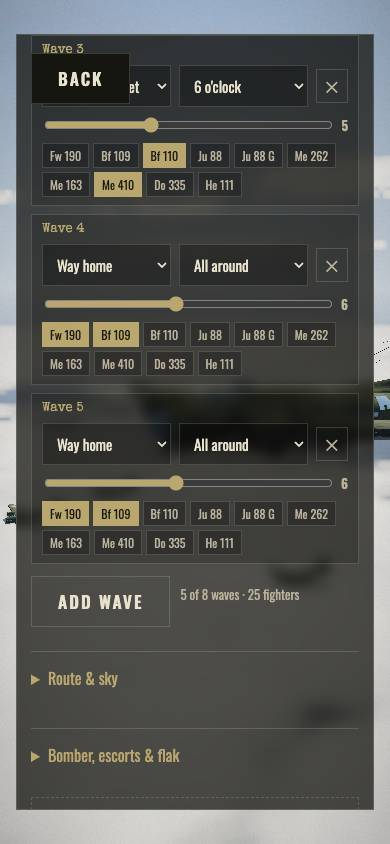
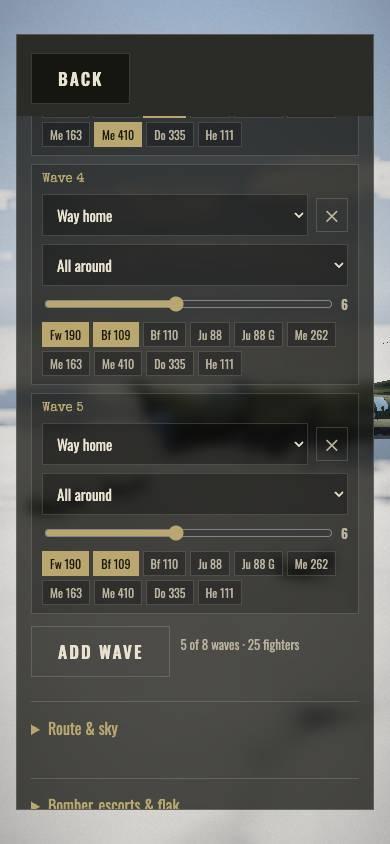
Mission editor review fixes: opaque Back strip, player-mission briefing, phone dropdowns, "1 fighter"
- Sticky Back on the Survival sheet, editor and shared card sits in an opaque full-width strip; room above the Survival title
- Briefing of a player mission: "PLAYER MISSION" kicker (EN/AR), no rounds tag
- Below 420 px the wave leg and direction get their own rows (Arabic labels fit)
- Editor total says "1 fighter"
- Browser check asserts opaque Back, uncut dropdowns and the briefing label; shots retaken

diff --git a/src/ui/MissionEditorScreen.ts b/src/ui/MissionEditorScreen.ts
@@ -49,8 +49,16 @@ function injectCss() {
   .me-wave .n { grid-area: 1 / 1 / 2 / -1; } .me-wave [data-w=leg] { grid-area: 2 / 1; } .me-wave [data-w=from] { grid-area: 2 / 2; } .me-wave .x { grid-area: 2 / 3; }
   .me-wave .cnt { grid-area: 3 / 1 / 4 / -1; } .me-wave .types { grid-area: 4 / 1 / 5 / -1; }
 }
-/* the sticky Back stays opaque over the scrolled sheet */
-#me-screen .btn.menu-back, #me-shared .btn.menu-back { background: var(--panel-solid, #202720); }
+/* narrow phones (and the longer Arabic labels): the leg and direction each get a full row */
+@media (max-width: 420px) {
+  .me-wave { grid-template-columns: 1fr auto; }
+  .me-wave [data-w=leg] { grid-area: 2 / 1; } .me-wave .x { grid-area: 2 / 2; } .me-wave [data-w=from] { grid-area: 3 / 1 / 4 / -1; }
+  .me-wave .cnt { grid-area: 4 / 1 / 5 / -1; } .me-wave .types { grid-area: 5 / 1 / 6 / -1; }
+}
+/* The sticky Back sits in an opaque full-width strip (its clipped shadow), so the sheet scrolls under
+   the whole strip and nothing shows through or beside the button (the Survival sheet: simpleMenu.css). */
+:is(#me-screen, #me-shared) .box > .btn.menu-back { background: var(--panel-solid, #202720); z-index: 3;
+  box-shadow: 0 0 0 100vmax #2b2c27; clip-path: inset(-40px -100vmax -12px -100vmax); }
 .me-share { margin-top: 12px; display: flex; gap: 8px; align-items: center; }
 .me-share input { flex: 1; min-width: 0; font-family: monospace; font-size: 12px; }
 .me-err { color: #e07a5f; font-size: 13px; margin: 6px 0 0; min-height: 1em; }
@@ -189,7 +197,8 @@ export function showMissionEditor(o: EditorOpts) {
     out('route', tx(`${Math.round(ROUTE_SECONDS[s.route] / 6) / 10} min`));
     out('sunEl', sunLabel(s.sunEl, s.mood));
     out('bombers', tx(`${s.bombers} bombers`));
-    out('total', tx(`${s.waves.length} of ${WAVES_MAX} waves · ${totalFighters(s)} fighters`));
+    const f = totalFighters(s);
+    out('total', tx(`${s.waves.length} of ${WAVES_MAX} waves · ${f} ${f === 1 ? 'fighter' : 'fighters'}`));
     q<HTMLElement>('[data-sum]').textContent = `${missionTitle(s) === s.name ? s.name : tx(missionTitle(s))} — ${summary(s)}`;
     q<HTMLInputElement>('[data-link]').value = linkFor(encodeMission(s));
     saveDraft(s);

diff --git a/src/ui/BriefingExtras.ts b/src/ui/BriefingExtras.ts
@@ -3,6 +3,7 @@ import { DEEP_PENETRATION, isChapterMission } from '../game/DeepPenetration';
 import { isTourId, TOUR_LENGTH } from '../game/Tour';
 import { decorateTourBriefing } from './TourScreen';
 import { CAMPAIGN, type Mission } from '../game/Missions';
+import { USER_MISSION_ID } from '../game/MissionEditor';
 import { briefingVoice } from '../audio/BriefingVoice';
 import { tx } from '../i18n';
 import { decorateCampaignBriefing } from './CampaignMap';
@@ -73,7 +74,7 @@ function weatherLabel(m: Mission): string {
 function facts(m: Mission): { text: string; hot?: boolean }[] {
   const out: { text: string; hot?: boolean }[] = [{ text: tx('Weather: {w}', { w: tx(weatherLabel(m)) }) }];
   const n = m.rounds ?? 1;
-  out.push({ text: Number.isFinite(n) ? tx('{n} rounds', { n }) : tx('Endless rounds') });
+  if (m.id !== USER_MISSION_ID) out.push({ text: Number.isFinite(n) ? tx('{n} rounds', { n }) : tx('Endless rounds') });   // player missions: waves, not rounds
   if (m.playerDamaged) out.push({ text: tx('Two engines out'), hot: true });
   if (m.flak) out.push({ text: tx(m.flak.intensity >= 1.5 ? 'Heavy flak' : 'Flak'), hot: m.flak.intensity >= 1.5 });
   if (m.bombsAway !== undefined) out.push({ text: tx('Bomb run') });
@@ -116,6 +117,7 @@ export function decorateBriefing(root: HTMLElement, m: Mission) {
     meta.innerHTML = facts(m).map((f) => `<span${f.hot ? ' class="hot"' : ''}>${esc(f.text)}</span>`).join('');
     target.after(meta);
   }
+  if (m.id === USER_MISSION_ID && kicker) kicker.textContent = tx('PLAYER MISSION');   // Phase 11 goal 27 (MissionEditor.ts)
   if (isChapterMission(m.id) && kicker) kicker.textContent = tx('Deep Penetration') + ' · ' + kicker.textContent;
   if (tour) decorateTourBriefing(sheet);   // the Tour: kicker and the crew's own ship (TourScreen.ts)
   decorateCampaignBriefing(sheet, m); // dynamic campaign: side-raid kicker, strategic modifiers

diff --git a/src/i18n/ar/missionEditor.ts b/src/i18n/ar/missionEditor.ts
@@ -47,6 +47,7 @@ const table: PhraseTable = {
     'This mission code holds values the game does not allow.': 'يحمل رمز المهمة هذا قيماً لا تسمح بها اللعبة.',
     // ---------------- the built mission ----------------
     'Player mission': 'مهمة من صنع لاعب',
+    'PLAYER MISSION': 'مهمة من صنع لاعب',
     'No flak over the target.': 'لا مضادات فوق الهدف.',
     'Light flak over the target.': 'مضادات خفيفة فوق الهدف.',
     'Heavy flak over the target.': 'مضادات كثيفة فوق الهدف.',
@@ -120,7 +121,7 @@ const table: PhraseTable = {
     [/^Wave (\d+)$/, 'الموجة $1'],
     [/^(\d+(?:\.\d+)?) min$/, '$1 دقيقة'],
     [/^(\d+) bombers$/, (m) => bombers(m[1])],
-    [/^(\d+) of (\d+) waves · (\d+) fighters$/, (m) => `${m[1]} من ${m[2]} موجات · ${fighters(m[3])}`],
+    [/^(\d+) of (\d+) waves · (\d+) fighters?$/, (m) => `${m[1]} من ${m[2]} موجات · ${fighters(m[3])}`],
     [/^(\d+) enemy groups? · (\d+) fighters?$/, (m) => `${groups(m[1])} من العدو · ${fighters(m[2])}`],
     [/^Flown (\d+) times · best (\d+)$/, (m) => `طرت فيها ${times(m[1])} · أفضل نتيجة ${m[2]}`],
     [/^Flown once · best (\d+)$/, 'طرت فيها مرة واحدة · أفضل نتيجة $1'],

diff --git a/src/ui/simpleMenu.css b/src/ui/simpleMenu.css
@@ -35,6 +35,9 @@ html[dir=rtl] #title.simple-title .wrap { left:auto; right:7%; }
 #survival .mode-panel { border:0; padding:0; margin:0; }
 #survival .mode-body { margin-top:16px; }
 #survival .box { width:min(620px,100%); }
+/* Survival's sticky Back: an opaque full-width strip (clipped shadow) the sheet scrolls under, with room above the title */
+#survival .box > .btn.menu-back { background:var(--panel-solid); box-shadow:0 0 0 100vmax #2b2c27; clip-path:inset(-40px -100vmax -12px -100vmax); z-index:3; }
+#survival .box > .btn.menu-back + .kicker { margin-top:14px; }
 @media (max-width:600px) {
   #title.simple-title .wrap { padding:24px 0; }
   #title.simple-title h1 { font-size:46px; }

diff --git a/docs/phase11/reports/27.md b/docs/phase11/reports/27.md
@@ -44,6 +44,20 @@ and fly, rate and replay missions other players send them.
   arrive at 20 s or 15 s after bombs away. Enemy skill climbs across the waves within the chosen skill's range,
   and the loss limit is 40 % of the formation.
 
+## Review round 1 (fixes)
+- **Back button** on the Survival sheet, the editor and the shared card: the sticky Back now sits in an opaque
+  full-width strip (a clipped box-shadow), so the sheet scrolls under the whole strip. Nothing shows through
+  or beside the button, and it no longer covers a wave's dropdowns. On the Survival sheet there is 14 px of room
+  between the strip and the title (`src/ui/simpleMenu.css`, which applies to every Survival tab; the editor and card rules
+  are in `MissionEditorScreen.ts`).
+- **Briefing** of a player mission: the kicker reads "PLAYER MISSION" / «مهمة من صنع لاعب» instead of
+  "SURVIVAL", and the "1 ROUNDS" tag is dropped (player missions are waves, not rounds).
+- **Phone dropdowns**: below 420 px each wave puts the leg (with ✕) and the direction on their own full-width
+  rows, so "من كل الجهات" and "فوق الهدف" fit.
+- **"1 fighter"**: the editor total uses the singular for one fighter (the Arabic pattern accepts both).
+- The browser check now also asserts: the Back is opaque (library and editor, 4 sizes/languages), no editor
+  dropdown is narrower than its chosen label, and the briefing kicker / no rounds tag. All shots retaken.
+
 ## Hook lines in shared files
 - `src/game/Missions.ts`: `Wave.types?: EnemyType[]` (optional field).
 - `src/game/Director.ts` `spawnWave`: `const selected = w.types?.length ? pickEnemyType(w.types, tier) : g.modes.enemyType(…)`
@@ -52,6 +66,9 @@ and fly, rate and replay missions other players send them.
   `if (!openMissionLink(this)) this.onboarding.onTitle();`.
 - `src/game/MissionFlow.ts` `showDebrief`: `mountMissionRating(host, m, d);` after the nemesis debrief.
 - `src/ui/CustomBattleScreen.ts`: `injectCss` is now exported (the editor reuses the Custom Battle styles).
+- `src/ui/BriefingExtras.ts`: imports `USER_MISSION_ID`; `facts()` skips the rounds tag for it, and
+  `decorateBriefing` sets the kicker to "PLAYER MISSION".
+- `src/ui/simpleMenu.css`: two rules for the Survival sheet's Back strip.
 
 ## New files
 `src/game/MissionEditor.ts`, `src/ui/MissionEditorScreen.ts`, `src/i18n/ar/missionEditor.ts` (auto-discovered),
@@ -92,8 +109,9 @@ and fly, rate and replay missions other players send them.
   above stands in for it.
 - Player missions earn merit, career and mastery progress like Custom Battles do. They don't post scores, but a
   player could build an easy mission to farm progress. If that matters, scale merit in `showDebrief` by mode.
-- The browser check ran outside `tools/heavy.sh`: all slots were held by long Arabic voice renders. It is one
-  headless page plus one autoplay run.
+- The browser check ran outside `tools/heavy.sh`: all slots were held by long Arabic voice renders and a capture
+  rig. It is one headless page plus one autoplay run. Playwright is not in this repo's `node_modules`; it ran with
+  `PLAYWRIGHT_MODULE` (the npx cache) and `PLAYWRIGHT_EXECUTABLE` (the bundled chromium headless shell 1243).
+  Re-run result: all checks pass, no page errors (`check.json`).
 - When the editor module is imported a second time through Vite HMR, the check harness needs a fresh dev
   server: the mission-to-code map is per module instance. This doesn't affect the game.
-- A one-fighter wave reads "1 of 8 waves · 1 fighters" in English (the Arabic uses the correct counted forms).
